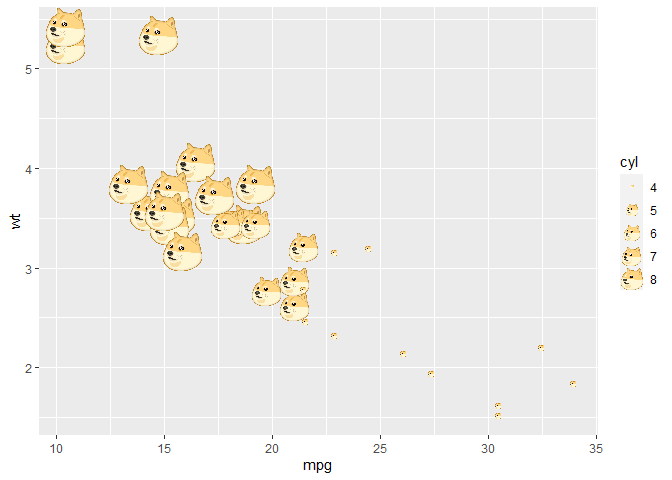
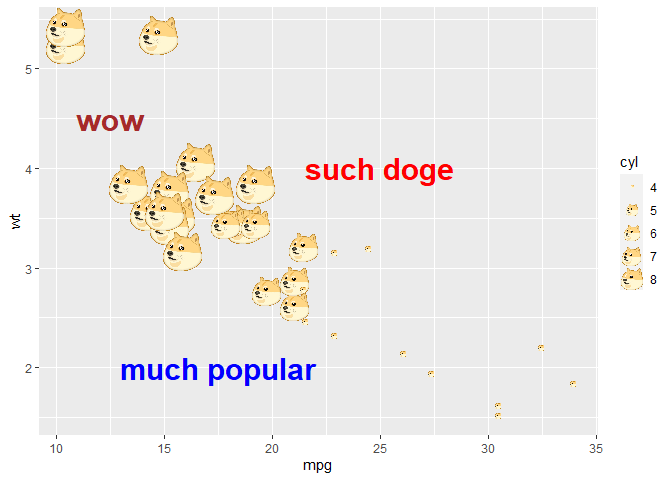
new example

Changed region(s): [[0.1562, 0.75, 0.4688, 0.8125], [0.4375, 0.3125, 0.6875, 0.4062], [0.0938, 0.2188, 0.2188, 0.2812]]

diff --git a/README.md b/README.md
@@ -27,8 +27,11 @@ This is a basic example which shows you how to solve a common problem:
 library(dogeR)
 library(ggplot2)
 
-ggplot(mtcars) +
-  geom_doge(aes(mpg, wt, size=cyl))
+ggplot(mtcars) + 
+  geom_doge(aes(mpg, wt, size=cyl)) +
+  annotate(geom='text', x=25, y=4, label='such doge', color='red', size=8, fontface='bold') +
+  annotate(geom='text', x=12.5, y=4.5, label='wow', color='brown', size=8, fontface='bold') +
+  annotate(geom='text', x=17.5, y=2, label='much popular', color='blue', size=8, fontface='bold')
 ```
 
 <img src="man/figures/README-example-1.png" width="100%" />
